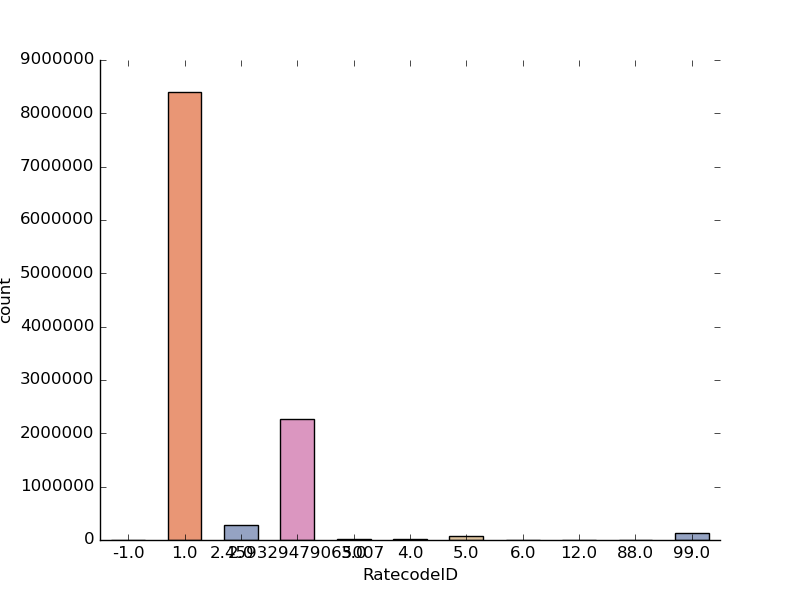
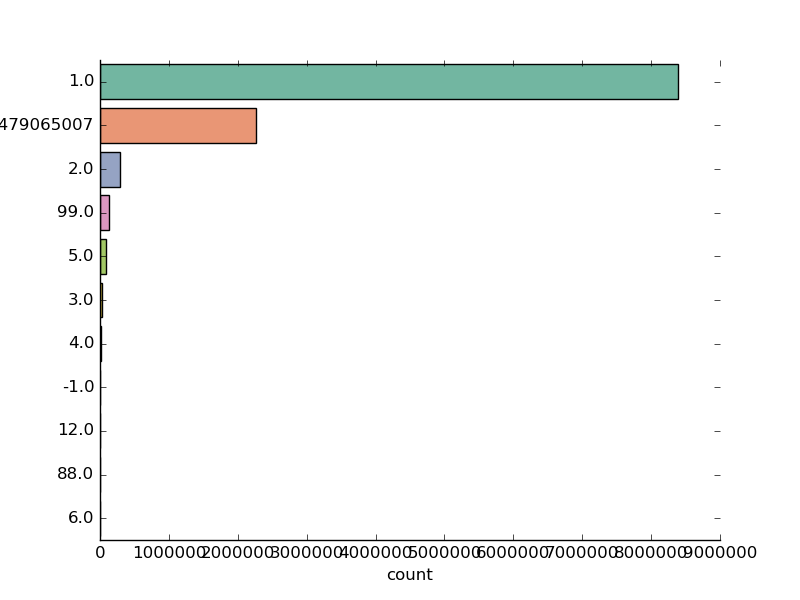
fixes

Changed region(s): [[0.0, 0.09, 0.9375, 0.99], [0.0312, 0.69, 0.125, 0.75]]

diff --git a/main.py b/main.py
@@ -16,20 +16,20 @@ def main():
     
     #
     
-    print(data.head(10))
+    #print(data.head(10))
     
     #UNIVARIATE ANALYSIS
     
-    # analyze_fare_amount(data) # need work
+    #analyze_fare_amount(data) # need work
     
     #trip_dist(data) # --> DONE , maybe color
     
     #payment_type(data) # --> need more on the color and the x axis numbers are bad looking 
-    # rate_code(data) --> the cols one of them is too tall it is basicly dominating the plot so we will need to change the width of the bars and maybe the color
+    rate_code(data) #--> the cols one of them is too tall it is basicly dominating the plot so we will need to change the width of the bars and maybe the color
 
     #dist_passenger(data) # --> DONE , maybe color and x axis numbers are bad looking
     
-    passenger_count_over_time(data)
+    #passenger_count_over_time(data)
 
     #multivariate analysis
     

diff --git a/Analytical_section/Univariate_EDA/rate_code.py b/Analytical_section/Univariate_EDA/rate_code.py
@@ -12,7 +12,7 @@ def rate_code(data):
     #in it use tpep_pickup_datetime col , and passenger_count
     
     sns.countplot(y=data.RatecodeID,
-                       width=0.6 , 
+                       width=0.8 , 
                        palette='Set2' , order = data.RatecodeID.value_counts().index)  
         
 

diff --git a/Analytical_section/Univariate_EDA/fare_amount.py b/Analytical_section/Univariate_EDA/fare_amount.py
@@ -36,7 +36,7 @@ def analyze_fare_amount(data):
     plt.xlabel('Fare amount')
 
     plt.ylabel('Count')
-    
+    plt.savefig('analyze_fare_amount')
     plt.show()    
     
     return
